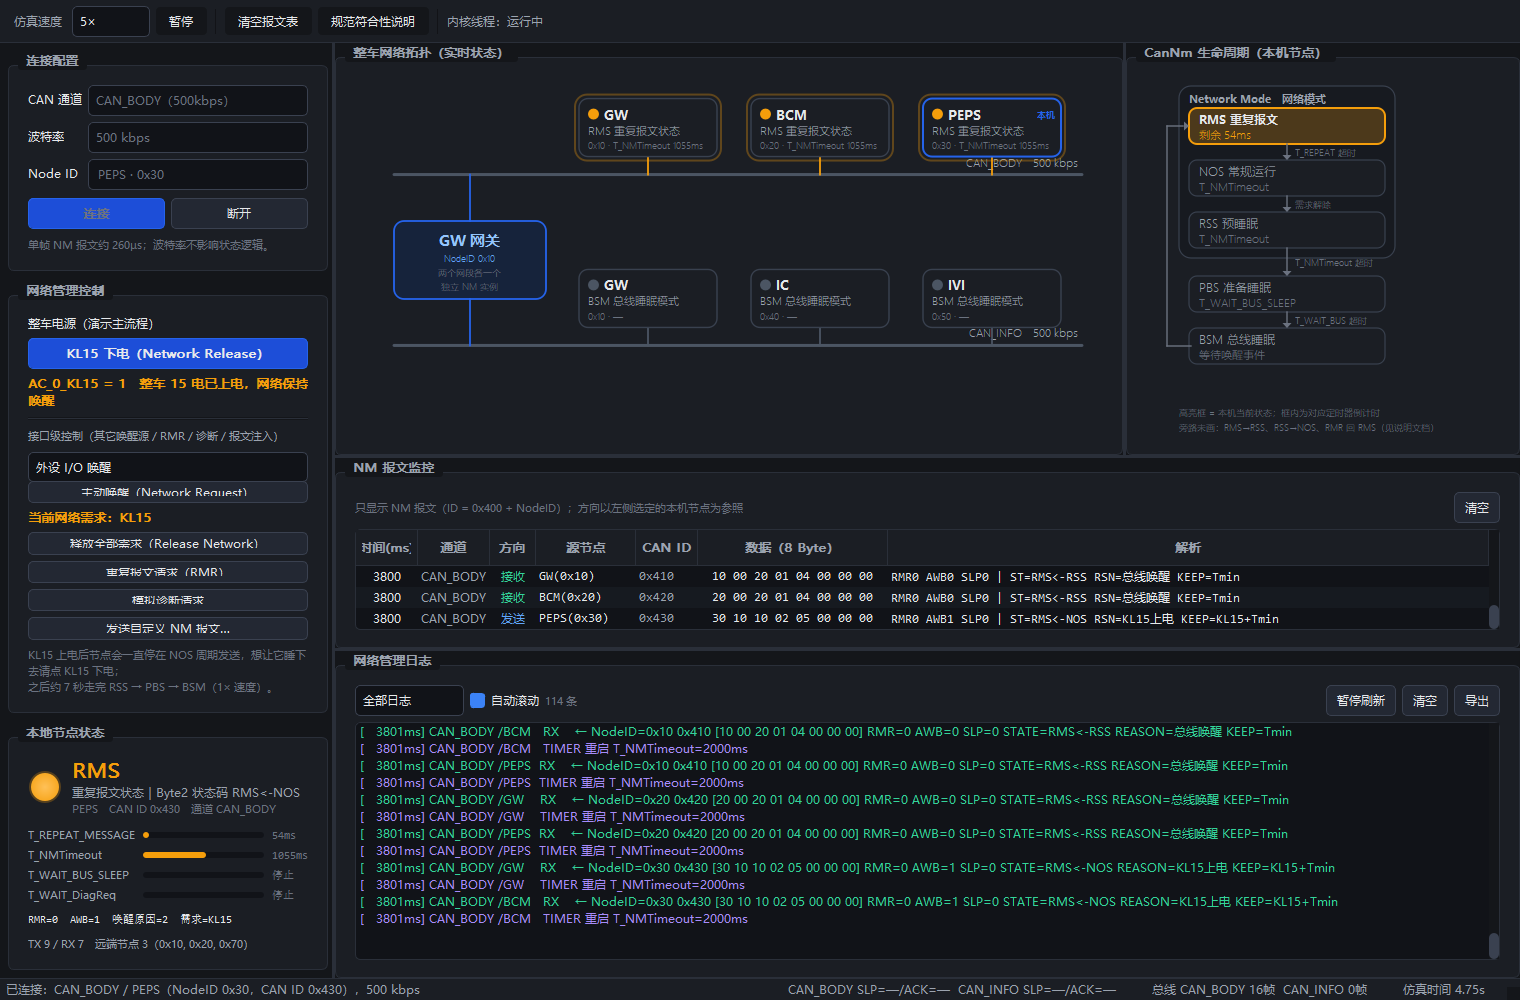
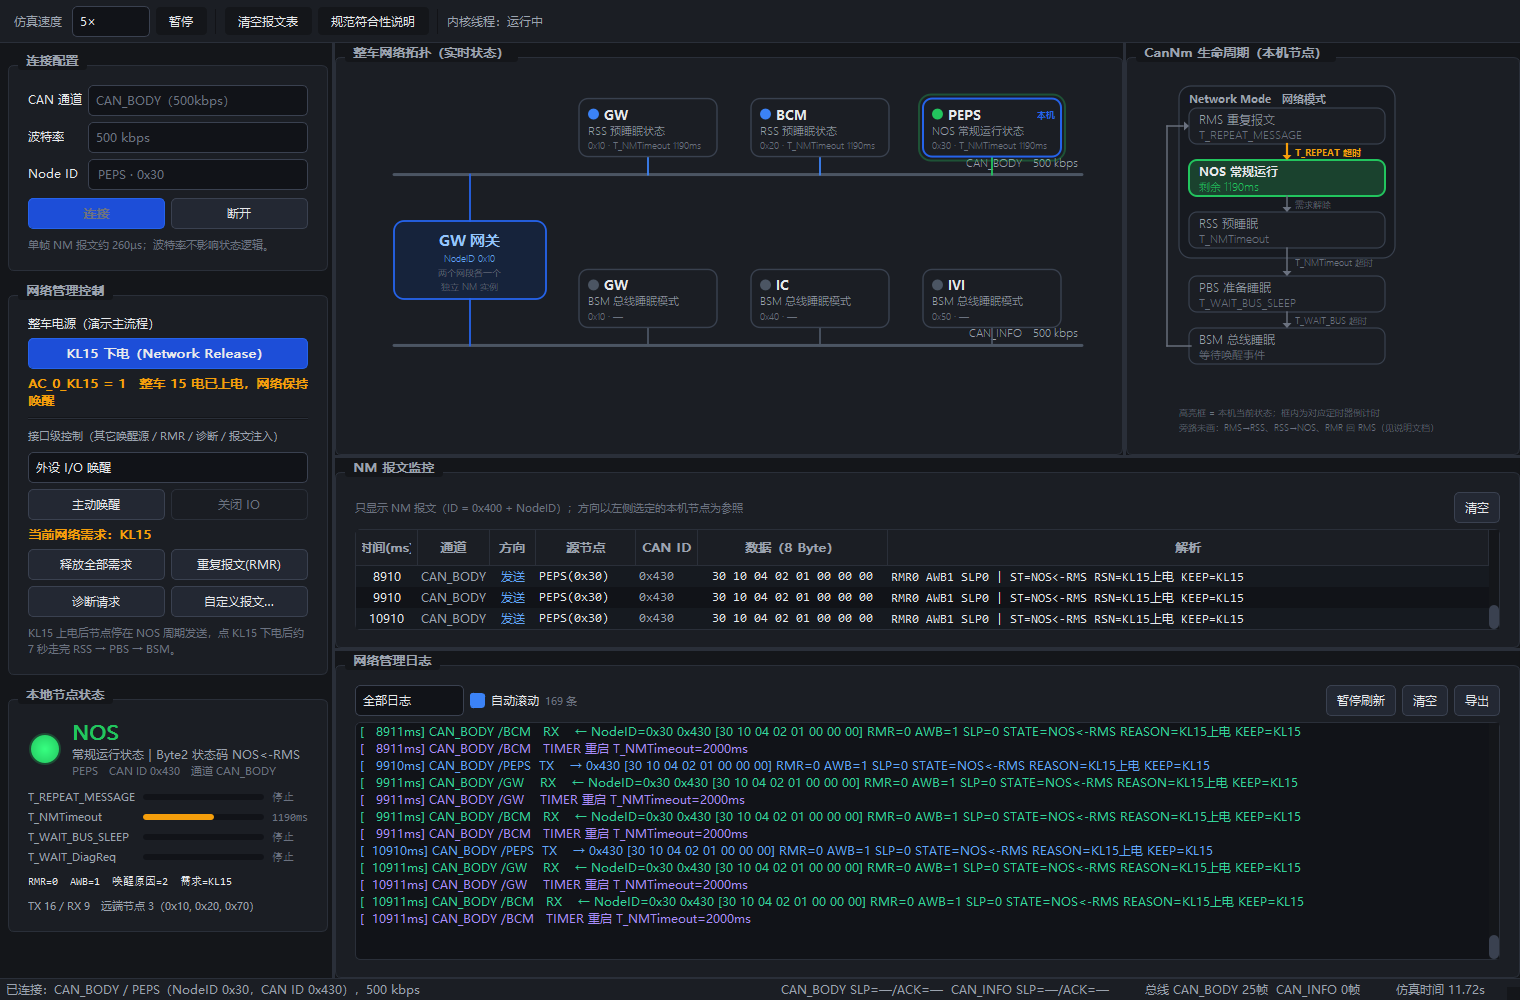
feat(界面): 唤醒源支持配对关闭，接口级控制区改两列布局
I/O 唤醒原先只有「开」，关只能靠「释放全部需求」一刀切，和 KL15 上/下电
的成对语义不一致。

- 新增「关闭 IO / 关闭 FUNC」按钮，对应 CanNm_NetworkRelease(source)：
  只清除下拉选中那一路保持事件，KL15 / 诊断保持不受影响
- 按钮文字跟随唤醒源下拉变化，且仅当该源确实持有需求时可点（避免点了没反应）
- 内核 can_nm_network_release(source) 本就支持按源释放，本次仅补 UI 入口
- 接口级控制区 8 行竖排改两列 4 行；按钮文字精简，完整接口名与语义移入 tooltip
- 新增 2 个 UI 用例：配对关闭生效、关闭 IO 不清掉 KL15
- 重新生成 docs/ui_preview.png

diff --git a/tests/test_ui_smoke.py b/tests/test_ui_smoke.py
@@ -255,6 +255,52 @@ class TestUiSmoke(unittest.TestCase):
         self.assertIn("DIAG", panel.demand_label.text(), "KL15 下电不应清除诊断保持事件")
         self.assertEqual(self.window.local_status.state_short.text(), "NOS")
 
+    def test_io_wakeup_has_paired_release(self) -> None:
+        """I/O 唤醒要有配对的关闭动作，下拉选谁就开/关谁。"""
+        panel = self.window.control_panel
+        self.window.connect_simulation("CAN_BODY", 0x30, 500000)
+        self.pump(250)
+
+        # 下拉默认停在 I/O 唤醒
+        self.assertIn("关闭 IO", panel.source_release_btn.text())
+        self.assertFalse(panel.source_release_btn.isEnabled(), "没唤醒时不该能点关闭")
+
+        # ---- I/O 唤醒 ----
+        self.window._on_network_request("IO", 3)
+        self.pump(1600)          # 等 T_REPEAT_MESSAGE=1000ms 过去
+        self.assertEqual(self.window.local_status.state_short.text(), "NOS")
+        self.assertIn("IO", panel.demand_label.text())
+        self.assertTrue(panel.source_release_btn.isEnabled(), "持有 I/O 需求后应可关闭")
+
+        # ---- 关闭 I/O 唤醒：只走这一路，节点应能进 RSS ----
+        panel.source_release_btn.click()
+        self.pump(300)
+        self.assertNotIn("IO", panel.demand_label.text())
+        self.assertIn("无", panel.demand_label.text())
+        self.assertEqual(self.window.local_status.state_short.text(), "RSS")
+        self.assertFalse(panel.source_release_btn.isEnabled())
+
+    def test_io_release_does_not_touch_kl15(self) -> None:
+        """关闭 I/O 唤醒不能顺手把 KL15 也清掉 —— 这是成对开关的关键语义。"""
+        panel = self.window.control_panel
+        self.window.connect_simulation("CAN_BODY", 0x30, 500000)
+        self.pump(250)
+
+        panel.kl15_btn.setChecked(True)
+        self.window._on_network_request("IO", 3)
+        self.pump(1600)
+        self.assertIn("KL15", panel.demand_label.text())
+        self.assertIn("IO", panel.demand_label.text())
+        self.assertEqual(self.window.local_status.state_short.text(), "NOS")
+
+        panel.source_release_btn.click()
+        self.pump(300)
+        self.assertNotIn("IO", panel.demand_label.text())
+        self.assertIn("KL15", panel.demand_label.text(), "关闭 I/O 不应清掉 KL15 保持事件")
+        self.assertEqual(
+            self.window.local_status.state_short.text(), "NOS", "KL15 还在，节点应停在 NOS"
+        )
+
     def test_lifecycle_view_tracks_local_state(self) -> None:
         """生命周期流程图必须跟着本机节点状态走。"""
         machine = self.window.state_machine_view
@@ -271,6 +317,23 @@ class TestUiSmoke(unittest.TestCase):
         self.window.control_panel.kl15_btn.setChecked(False)
         self.pump(250)
         self.assertEqual(machine.current_state_short, "RSS", "下电后应高亮 RSS")
+
+    def test_diag_button_disabled_in_sleep_states(self) -> None:
+        """BSM / PBS 下诊断报文不接收，按钮必须置灰，避免"点了没反应"。"""
+        panel = self.window.control_panel
+        self.window.connect_simulation("CAN_BODY", 0x30, 500000)
+        self.pump(250)
+        self.assertFalse(panel.diag_btn.isEnabled(), "BSM 下诊断按钮应置灰")
+
+        panel.kl15_btn.setChecked(True)
+        self.pump(1600)
+        self.assertEqual(self.window.local_status.state_short.text(), "NOS")
+        self.assertTrue(panel.diag_btn.isEnabled(), "NOS 下诊断按钮应可用")
+
+        panel.kl15_btn.setChecked(False)
+        self.pump(2300)
+        self.assertIn(self.window.local_status.state_short.text(), {"PBS", "BSM"})
+        self.assertFalse(panel.diag_btn.isEnabled(), "PBS/BSM 下诊断按钮应再次置灰")
 
     def test_worker_batches_logs_to_ui(self) -> None:
         """回归：曾经因为 _flush 里把 self._pending_logs = [] 重新绑定，

diff --git a/src/ui/main_window.py b/src/ui/main_window.py
@@ -111,6 +111,7 @@ class MainWindow(QMainWindow):
         self.control_panel.kl15Changed.connect(self._on_kl15)
         self.control_panel.networkRequest.connect(self._on_network_request)
         self.control_panel.networkRelease.connect(self._on_network_release)
+        self.control_panel.sourceRelease.connect(self._on_source_release)
         self.control_panel.repeatMessageRequest.connect(self._on_rmr)
         self.control_panel.diagRequest.connect(self._on_diag)
         self.control_panel.customFrameRequested.connect(self._on_custom_frame)
@@ -268,6 +269,11 @@ class MainWindow(QMainWindow):
         if self.worker and self.local_channel is not None:
             self.worker.release_network(self.local_channel, self.local_node_id)
 
+    def _on_source_release(self, source: str) -> None:
+        """只清除指定唤醒源那一路保持事件（如 IO），KL15 / 诊断保持不受影响。"""
+        if self.worker and self.local_channel is not None:
+            self.worker.release_network(self.local_channel, self.local_node_id, source)
+
     def _on_rmr(self) -> None:
         if self.worker and self.local_channel is not None:
             self.worker.repeat_message_request(self.local_channel, self.local_node_id)
@@ -325,6 +331,12 @@ class MainWindow(QMainWindow):
             # 把"当前还有没有网络需求"直接摆到控制按钮旁边：
             # KL15 这类保持事件不清除，节点就会一直停在 NOS（规范语义，不是卡住）
             self.control_panel.set_demand(local_snap["keep_awake"])
+            # BSM / PBS 下不接收应用报文（规范表 4），诊断请求在那里是空操作 → 按钮置灰
+            can_diag = (
+                local_snap["state_short"] not in ("BSM", "PBS")
+                or self.config.protocol.diag_can_wake_from_sleep
+            )
+            self.control_panel.set_diag_allowed(can_diag)
         else:
             self.state_machine_view.set_snapshot(None)
 
